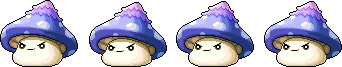
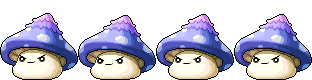
[한경]케릭터 버그수정

diff --git a/Brave-Pig/Brave-Pig/Brave-Pig/LevelManager.cs b/Brave-Pig/Brave-Pig/Brave-Pig/LevelManager.cs
@@ -98,7 +98,7 @@ namespace Brave_Pig
 
                     if (TileMap.CellCodeValue(x, y) == "ENEMY2")
                     {
-                        Enemy BrownPig = new Enemy(Content, "갈색돼지", "brownpig", 70, 52, x, y, 200, 15);
+                        Enemy BrownPig = new Enemy(Content, "갈색돼지", "brownpig", 70, 52, x, y, 100, 15);
                         enemies.Add(BrownPig);
                     }
 
@@ -110,25 +110,25 @@ namespace Brave_Pig
 
                     if (TileMap.CellCodeValue(x, y) == "ENEMY4")
                     {
-                        Enemy PoisonMushroom = new Enemy(Content, "독버섯", "poisionmushroom", 64, 85, x, y, 200, 30);
+                        Enemy PoisonMushroom = new Enemy(Content, "독버섯", "poisionmushroom", 78, 80, x, y, 300, 30);
                         enemies.Add(PoisonMushroom);
                     }
 
                     if (TileMap.CellCodeValue(x, y) == "ENEMY5")
                     {
-                        Enemy MossMushroom = new Enemy(Content, "이끼버섯", "mossmushroom", 64, 64, x, y, 200, 40);
+                        Enemy MossMushroom = new Enemy(Content, "불량버섯", "cynicalmushroom", 63, 65, x, y, 400, 40);
                         enemies.Add(MossMushroom);
                     }
 
                     if (TileMap.CellCodeValue(x, y) == "ENEMY6")
                     {
-                        Enemy MossMushroom = new Enemy(Content, "이끼버섯", "mossmushroom", 64, 64, x, y, 200, 50);
+                        Enemy MossMushroom = new Enemy(Content, "보라버섯", "violetmushroom", 63, 65, x, y, 500, 50);
                         enemies.Add(MossMushroom);
                     }
 
                     if (TileMap.CellCodeValue(x, y) == "ENEMY7")
                     {
-                        Enemy MossMushroom = new Enemy(Content, "이끼버섯", "mossmushroom", 64, 64, x, y, 200, 70);
+                        Enemy MossMushroom = new Enemy(Content, "빨간돼지", "redpig", 68, 55, x, y, 600, 70);
                         enemies.Add(MossMushroom);
                     }
                     ////////////////////////////////////////////////////
@@ -188,17 +188,29 @@ namespace Brave_Pig
                     //주인공이 어느 지점을 지나고 몇 초 후에 나타남
                     if (TileMap.CellCodeValue(x, y) == "MBOSS1")
                     {
-                        Enemy Middle = new Enemy(Content, "해골장나르크", "middle1", 68, 73, x, y, 200, 30);
+                        Enemy Middle = new Enemy(Content, "해골장나르크", "middle1", 82, 89, x, y, 500, 30);
                         enemies.Add(Middle);
                     }
 
                     if (TileMap.CellCodeValue(x, y) == "MBOSS2")
-                    { }
+                    {
+                        Enemy Middle2 = new Enemy(Content, "Slime", "middle2", 218, 218, x, y, 1500, 75);
+                        enemies.Add(Middle2);
+                    }
+
+                    if (TileMap.CellCodeValue(x, y) == "MBOSS3")
+                    {
+                        Enemy Middle3 = new Enemy(Content, "orangemushroom", "middle3", 120, 140, x, y, 3000, 100);
+                        enemies.Add(Middle3);
+                    }
                     ////////////////////////////////////////////////////
 
                     //보스맵에 들어가면 있음
                     if (TileMap.CellCodeValue(x, y) == "BOSS")
-                    { }
+                    {
+                        Enemy Boss = new Enemy(Content, "Boss", "Boss", 190, 140, x, y, 5000, 150);
+                        enemies.Add(Boss);
+                    }
 
                     //닿으면 캐릭터가 공격당했을때 모션을 하면서 HP 감소
                     if (TileMap.CellCodeValue(x, y) == "DAMAGED")
@@ -276,7 +288,7 @@ namespace Brave_Pig
                     {
                         if (player.attackingfilp())
                         {
-                            e.PlayAnimation("idle");
+                            e.PlayAnimation("damage");
 
                             if (!player.anima())
                             {
@@ -288,6 +300,7 @@ namespace Brave_Pig
                                 e.healthPoint = e.healthPoint - player.getAttack();
                                 monsterDamage = true;
                             }
+
                             if (e.healthPoint <= 0)
                             {
                                 e.PlayAnimation("dead");
@@ -303,7 +316,7 @@ namespace Brave_Pig
                     {
                         if (player.attacking())
                         {
-                            e.PlayAnimation("idle");
+                            e.PlayAnimation("damage");
 
                             if (!player.anima())
                             {
@@ -332,7 +345,7 @@ namespace Brave_Pig
                     {
                         if (player.skill2ing())
                         {
-                            e.PlayAnimation("idle");
+                            e.PlayAnimation("damage");
                             e.healthPoint = e.healthPoint - player.getAttack();
                             if (e.healthPoint <= 0)
                             {
@@ -350,7 +363,7 @@ namespace Brave_Pig
                     {
                         if (player.skill3ing())
                         {
-                            e.PlayAnimation("idle");
+                            e.PlayAnimation("damage");
                             e.healthPoint = e.healthPoint - player.getAttack();
                             if (e.healthPoint <= 0)
                             {

diff --git a/Brave-Pig/Brave-Pig/Brave-Pig/Character/Player.cs b/Brave-Pig/Brave-Pig/Brave-Pig/Character/Player.cs
@@ -210,11 +210,6 @@ namespace Brave_Pig.Character
                 finish = false;
             } //애니메이션 디폴트 값 입력 전에 스킬 사용여부 체크
 
-            if(animations["damage"].FinishedPlaying || animations["damage2"].FinishedPlaying || animations["damage3"].FinishedPlaying || animations["damage4"].FinishedPlaying)
-            {
-                heal = false;
-            }
-
             isAttack = false;
             isAttackflip = false;
             isSkill2 = false;
@@ -969,6 +964,11 @@ namespace Brave_Pig.Character
 
         public void damaged(int damage)
         {
+            if (animations["damage"].FinishedPlaying || animations["damage2"].FinishedPlaying || animations["damage3"].FinishedPlaying || animations["damage4"].FinishedPlaying)
+            {
+                heal = false;
+            }
+
             int damaged;
             damaged = damage - getDefense();
 
@@ -988,7 +988,7 @@ namespace Brave_Pig.Character
                     flipped = true;
                 }
 
-                if (currentAnimation != "damage")
+                if (currentAnimation != "dead")
                 {
                     PlayAnimation("damage");
                 }
@@ -998,12 +998,13 @@ namespace Brave_Pig.Character
                 if (!heal)
                 {
                     heal = true;
-                    if (stat.healPoint > 0)
+                    if (stat.healPoint - damaged > 0)
                     {
                         stat.healPoint = stat.healPoint - damaged;
                     }
                     else
                     {
+                        stat.healPoint = 0;
                         PlayAnimation("dead");
                     }
                 }
@@ -1019,7 +1020,7 @@ namespace Brave_Pig.Character
                     flipped = true;
                 }
 
-                if (currentAnimation != "damage2")
+                if (currentAnimation != "dead2")
                 {
                     PlayAnimation("damage2");
                 }
@@ -1029,12 +1030,13 @@ namespace Brave_Pig.Character
                 if (!heal)
                 {
                     heal = true;
-                    if (stat.healPoint > 0)
+                    if (stat.healPoint - damaged > 0)
                     {
                         stat.healPoint = stat.healPoint - damaged;
                     }
                     else
                     {
+                        stat.healPoint = 0;
                         PlayAnimation("dead2");
                     }
                 }
@@ -1050,7 +1052,7 @@ namespace Brave_Pig.Character
                     flipped = true;
                 }
 
-                if (currentAnimation != "damage3")
+                if (currentAnimation != "dead3")
                 {
                     PlayAnimation("damage3");
                 }
@@ -1060,12 +1062,13 @@ namespace Brave_Pig.Character
                 if (!heal)
                 {
                     heal = true;
-                    if (stat.healPoint > 0)
+                    if (stat.healPoint - damaged > 0)
                     {
                         stat.healPoint = stat.healPoint - damaged;
                     }
                     else
                     {
+                        stat.healPoint = 0;
                         PlayAnimation("dead3");
                     }
                 }
@@ -1081,7 +1084,7 @@ namespace Brave_Pig.Character
                     flipped = true;
                 }
 
-                if (currentAnimation != "damage4")
+                if (currentAnimation != "dead4")
                 {
                     PlayAnimation("damage4");
                 }
@@ -1091,12 +1094,13 @@ namespace Brave_Pig.Character
                 if (!heal)
                 {
                     heal = true;
-                    if (stat.healPoint > 0)
+                    if (stat.healPoint - damaged > 0)
                     {
                         stat.healPoint = stat.healPoint - damaged;
                     }
                     else
                     {
+                        stat.healPoint = 0;
                         PlayAnimation("dead4");
                     }
                 }
@@ -1166,22 +1170,22 @@ namespace Brave_Pig.Character
             {
                 if (currentAnimation != "skill3" && currentAnimation != "skill22")
                 {
-                    returnValue = stat.damage * 3;
+                    returnValue = stat.damage * 4;
                 }
                 else if (currentAnimation == "skill3")
                 {
-                    returnValue = stat.damage * 9;
+                    returnValue = stat.damage * 12;
                 }
                 else if (currentAnimation == "skill22")
                 {
-                    returnValue = stat.damage * 15;
+                    returnValue = stat.damage * 20;
                 }
             }
             else if (ItemManager.getCurrentSword() == "Yellow")
             {
                 if (currentAnimation != "skill4" && currentAnimation != "skill23" && currentAnimation != "skill33")
                 {
-                    returnValue = stat.damage * 5;
+                    returnValue = stat.damage * 7;
                 }
                 else if (currentAnimation == "skill4")
                 {

diff --git a/Brave-Pig/Brave-Pig/Brave-Pig/Monsters/Enemy.cs b/Brave-Pig/Brave-Pig/Brave-Pig/Monsters/Enemy.cs
@@ -28,6 +28,8 @@ namespace Brave_Pig.Monsters
         public Enemy(ContentManager content, string MonsterName, string Contentname, int width, int height, int cellX, int cellY, int HP, int damage)
         {
             IsEnemy = true;
+            animations2.Add("default", new AnimationStrip(content.Load<Texture2D>("Player/default"), width, "damage"));
+            currentAnimation2 = "default";
             
             ///idle 애니메이션
             animations.Add("idle",
@@ -39,16 +41,6 @@ namespace Brave_Pig.Monsters
             animations["idle"].FrameLength = 0.3f;
             animations["idle"].LoopAnimation = true;
 
-            ///attack 애니메이션
-            animations.Add("attack",
-                new AnimationStrip(
-                    content.Load<Texture2D>(
-                        "Monsters/" + Contentname + "_attack"),
-                    width,
-                    "attack"));
-            animations["attack"].FrameLength = 0.1f;
-            animations["attack"].LoopAnimation = false;
-
             ///죽음 애니메이션
             animations.Add("dead",
                 new AnimationStrip(
@@ -59,7 +51,18 @@ namespace Brave_Pig.Monsters
 
             animations["dead"].FrameLength = 0.2f;
             animations["dead"].LoopAnimation = false;
-            
+
+            ///피격 애니메이션
+            animations.Add("damage",
+                new AnimationStrip(
+                    content.Load<Texture2D>(
+                       "Monsters/" + Contentname + "_damage"),
+                    width,
+                    "damage"));
+
+            animations["damage"].FrameLength = 0.3f;
+            animations["damage"].LoopAnimation = false;
+
             this.HealthPoint = HP;
             this.Damage = damage;
 
@@ -90,7 +93,7 @@ namespace Brave_Pig.Monsters
         }
         public void Pushed()
         {
-            velocity.Y = -300;
+            velocity.Y = -200;
         }
         #region Update
         public override void Update(GameTime gameTime)
@@ -113,6 +116,10 @@ namespace Brave_Pig.Monsters
                 direction *= walkSpeed;
                 velocity += direction;
                 velocity += fallSpeed;
+                if (animations["damage"].FinishedPlaying == true)
+                {
+                    PlayAnimation("idle");
+                }
             }
             
             base.Update(gameTime);
